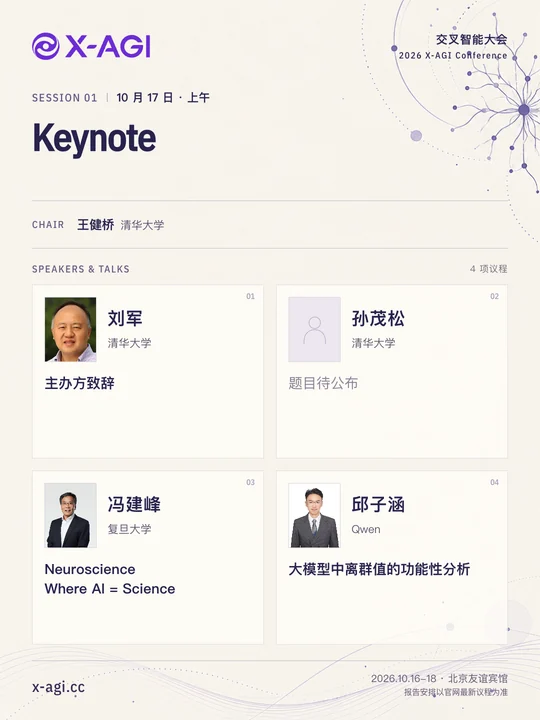
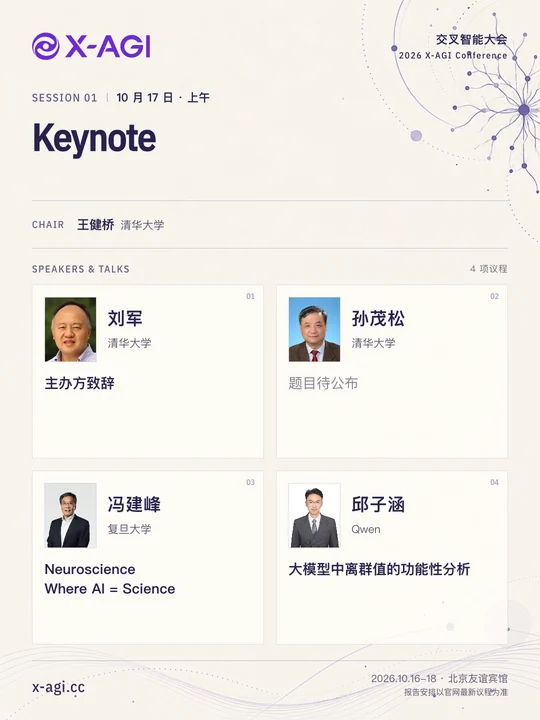
Add Sun Maosong biography and supplied portrait (#44)

Changed region(s): [[0.5333, 0.3972, 0.6519, 0.5194]]

diff --git a/src/data/conference2026-people.confirmed.ts b/src/data/conference2026-people.confirmed.ts
@@ -1,6 +1,6 @@
 import type { Conference2026PersonSourceRecord } from './conference2026-people.generated.ts';
 
-// Organizer-confirmed profile, 2026-09-17.
+// Organizer-confirmed profiles, 2026-09-17.
 // Keep this supplied copy separate from the attendee workbook snapshot.
 export const conference2026ConfirmedPeople: readonly Conference2026PersonSourceRecord[] = [
   {
@@ -12,6 +12,17 @@ export const conference2026ConfirmedPeople: readonly Conference2026PersonSourceR
     department: '统计与数据科学系',
     bio: '刘军，美国科学院院士、清华大学兴华卓越讲席教授、清华统计与数据科学系主任。于1991-2025年间，他曾任哈佛大学和斯坦福大学统计系助理教授、副教授、终身教授；还曾任美国统计协会会刊(JASA)联席主编及多个国际一流统计杂志副主编等职。曾获统计领域最高荣誉考普斯会长奖（2002）、华人数学家大会晨兴应用数学金奖（2010）、泛华统计协会许宝騄奖（2016）。于2004、2005和2022年分别成为数理统计学会（IMS）、美国统计学会（ASA）和国际计算生物学会（ISCB）选举会士。于2025年当选美国国家科学院院士。他指导了40多位博士生、30多位博士后；在国际权威期刊发表300余学术论文篇和一本专著，被引用10万余次 (GoogleScholar)。',
     hasSubmittedPortrait: false,
+    sourceOrder: -1,
+  },
+  {
+    id: 'sun-maosong',
+    name: '孙茂松',
+    aliases: [],
+    roles: ['speaker'],
+    affiliation: '清华大学',
+    department: '计算机科学与技术系',
+    bio: '孙茂松，清华大学计算机科学与技术系教授、博士生导师，清华大学人工智能研究院常务副院长，清华大学计算机学位评定分委员会主席，欧洲科学院外籍院士。2007-2018年任该系系主任、党委书记。主要研究领域为自然语言处理、人工智能、社会人文计算和计算教育学。国家重点基础研究发展计划（973计划）项目首席科学家，国家社会科学基金重大项目首席专家。北京智源人工智能研究院自然语言处理重大研究方向首席科学家，中央音乐学院、青海师范大学兼职教授、博士生导师，新加坡国立大学访问教授。在重要国际刊物、国际会议、国内核心刊物上发表论文200余篇，Google Scholar论文引用18500次以上。',
+    hasSubmittedPortrait: true,
     sourceOrder: -1,
   },
 ];

diff --git a/src/data/home-speakers.test.ts b/src/data/home-speakers.test.ts
@@ -7,7 +7,7 @@ describe('homepage speaker lineup', () => {
   it('includes every scheduled speaker with an existing portrait exactly once', () => {
     const eligible = conference2026People.filter((person) => person.portraitSrc
       && person.schedule.some((assignment) => assignment.role === 'speaker'));
-    assert.equal(homeSpeakers.length, 40);
+    assert.equal(homeSpeakers.length, 41);
     assert.equal(new Set(homeSpeakers.map((speaker) => speaker.id)).size, homeSpeakers.length);
     assert.deepEqual(new Set(homeSpeakers.map((speaker) => speaker.id)), new Set(eligible.map((person) => person.id)));
     for (const speaker of homeSpeakers) {
@@ -16,7 +16,7 @@ describe('homepage speaker lineup', () => {
   });
 
   it('preserves keynote order and links dual-role guests to their speaker biography', () => {
-    assert.deepEqual(homeSpeakers.slice(0, 4).map((speaker) => speaker.name), ['刘军', '冯建峰', '邱子涵', '罗涛']);
+    assert.deepEqual(homeSpeakers.slice(0, 4).map((speaker) => speaker.name), ['刘军', '孙茂松', '冯建峰', '邱子涵']);
     assert.equal(homeSpeakers[0].href, '/schedule/#schedule-person-01-speaker-liu-jun-1');
     assert.equal(homeSpeakers.find((speaker) => speaker.id === 'lu-yiping')?.href, '/schedule/#schedule-person-07-speaker-lu-yiping-3');
     assert.equal(homeSpeakers.at(-1)?.name, '从鑫');

diff --git a/src/data/home-speakers.ts b/src/data/home-speakers.ts
@@ -5,6 +5,7 @@ import { conference2026PersonForName } from './conference2026-people.ts';
 // English roles are translated for the Chinese homepage; evidence stays verbatim.
 const positions: Record<string, { label: string; evidence: string }> = {
   'liu-jun': { label: '兴华卓越讲席教授', evidence: '清华大学兴华卓越讲席教授' },
+  'sun-maosong': { label: '教授', evidence: '清华大学计算机科学与技术系教授' },
   'feng-jianfeng': { label: '浩清教授', evidence: '复旦大学浩清教授' },
   'qiu-zihan': { label: 'Qwen 预训练团队', evidence: '现就职于 Qwen 预训练团队' },
   'luo-tao': { label: '副教授', evidence: '数学科学学院/自然科学研究院副教授' },

diff --git a/docs/home-speakers-20260917.md b/docs/home-speakers-20260917.md
@@ -8,8 +8,9 @@
 ## 人物与内容来源
 
 `src/data/home-speakers.ts` 从正式日程的 Speaker 顺序派生阵容，按人物 ID 去重，只纳入已有本地头像的演讲嘉宾。
-当前为 40 位，缺少头像的其余讲者仍在完整日程中展示。
-头像和单位复用既有公开人物资料，不新增外部收集或生成的人像。
+当前为 41 位，缺少头像的其余讲者仍在完整日程中展示。
+头像和单位复用既有公开人物资料及会务明确提供的补充资料，不生成讲者人像。
+2026-09-17 根据会务提供的照片和简介补齐孙茂松，简介原文保存在 confirmed 人物资料中，首页按正式日程序列展示。
 职位从同一份已公开简介中简写，英文职位翻译为中文，并保留对应原文片段以便核验。
 简介没有明确职位时省略职位，不推测职级或学生身份。
 当来源简介改变而原文片段不再匹配时，构建会要求重新核对职位。
